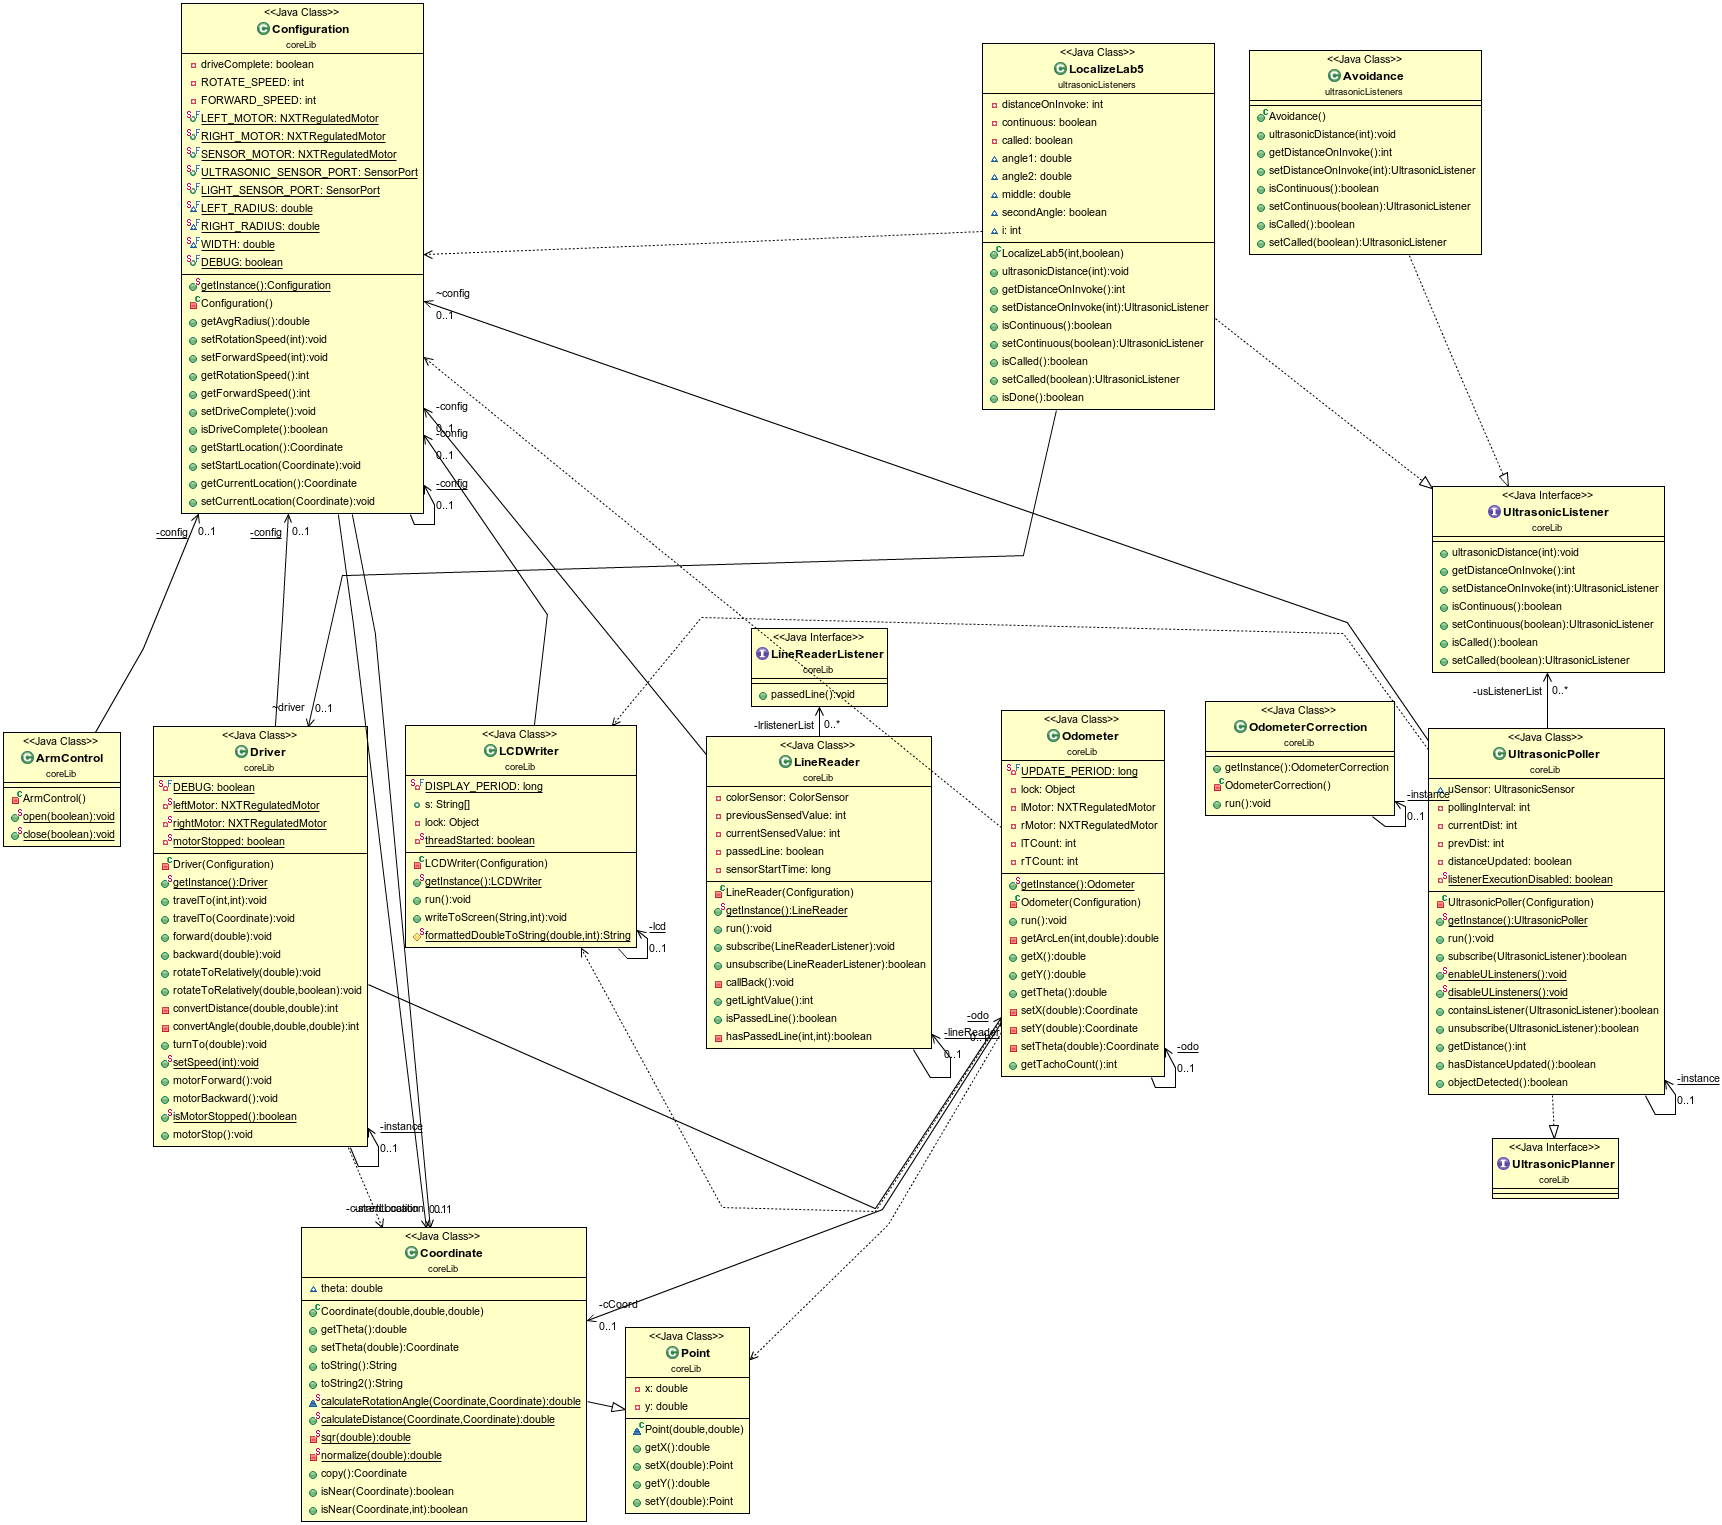
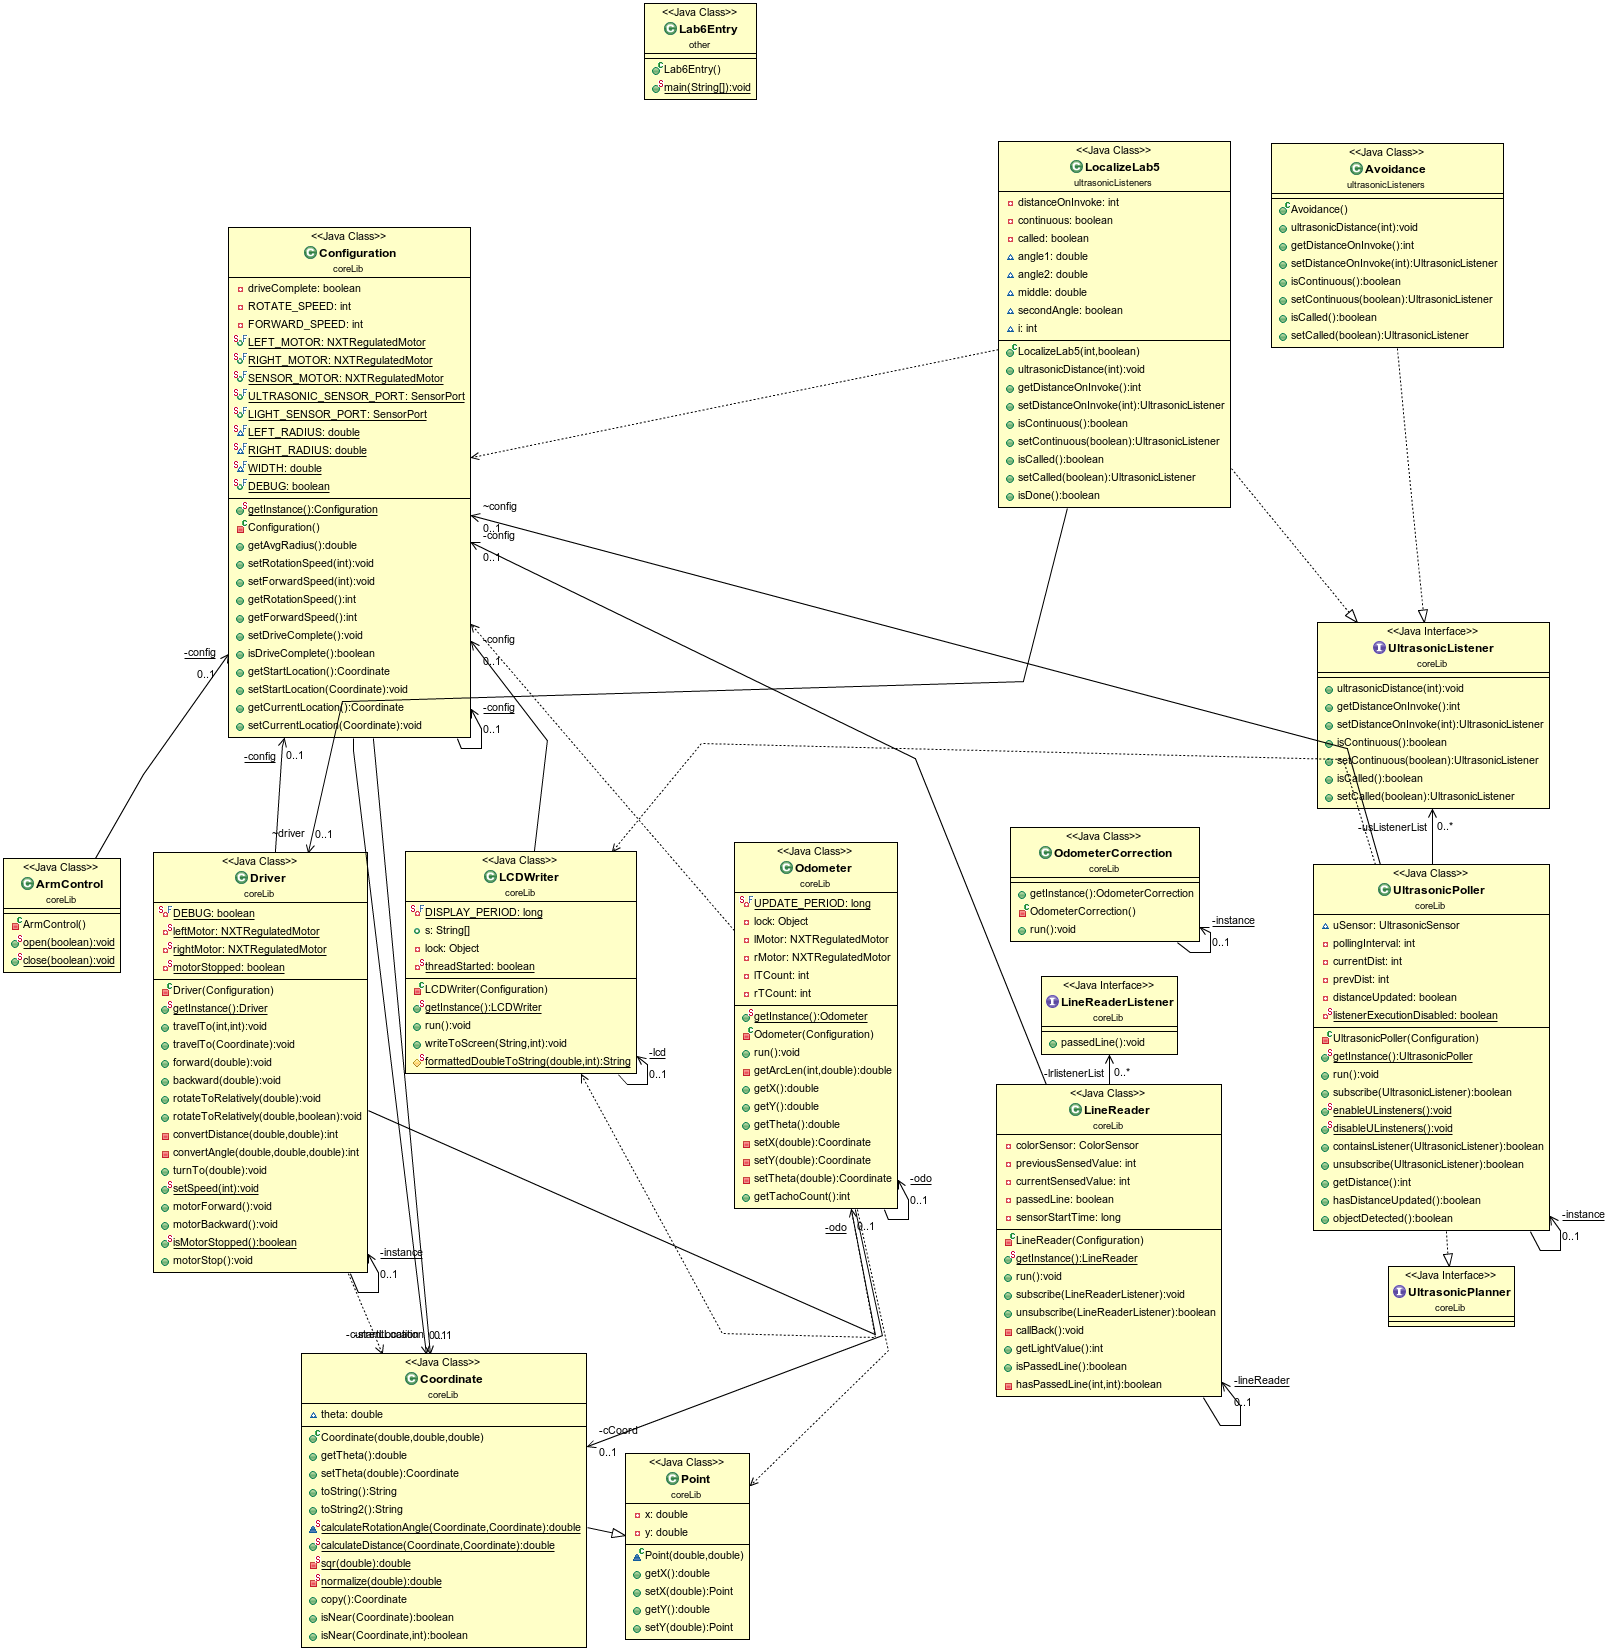
minor changes

diff --git a/Lab6/src/other/Lab6Entry.java b/Lab6/src/other/Lab6Entry.java
@@ -1,0 +1,22 @@
+/**
+ * 
+ */
+package other;
+
+import ultrasonicListeners.LocalizeLab5;
+
+/**
+ * @author yuechuan
+ *
+ */
+public class Lab6Entry {
+
+	/**
+	 * @param args
+	 */
+	public static void main(String[] args) {
+		// TODO Auto-generated method stub
+
+	}
+
+}
